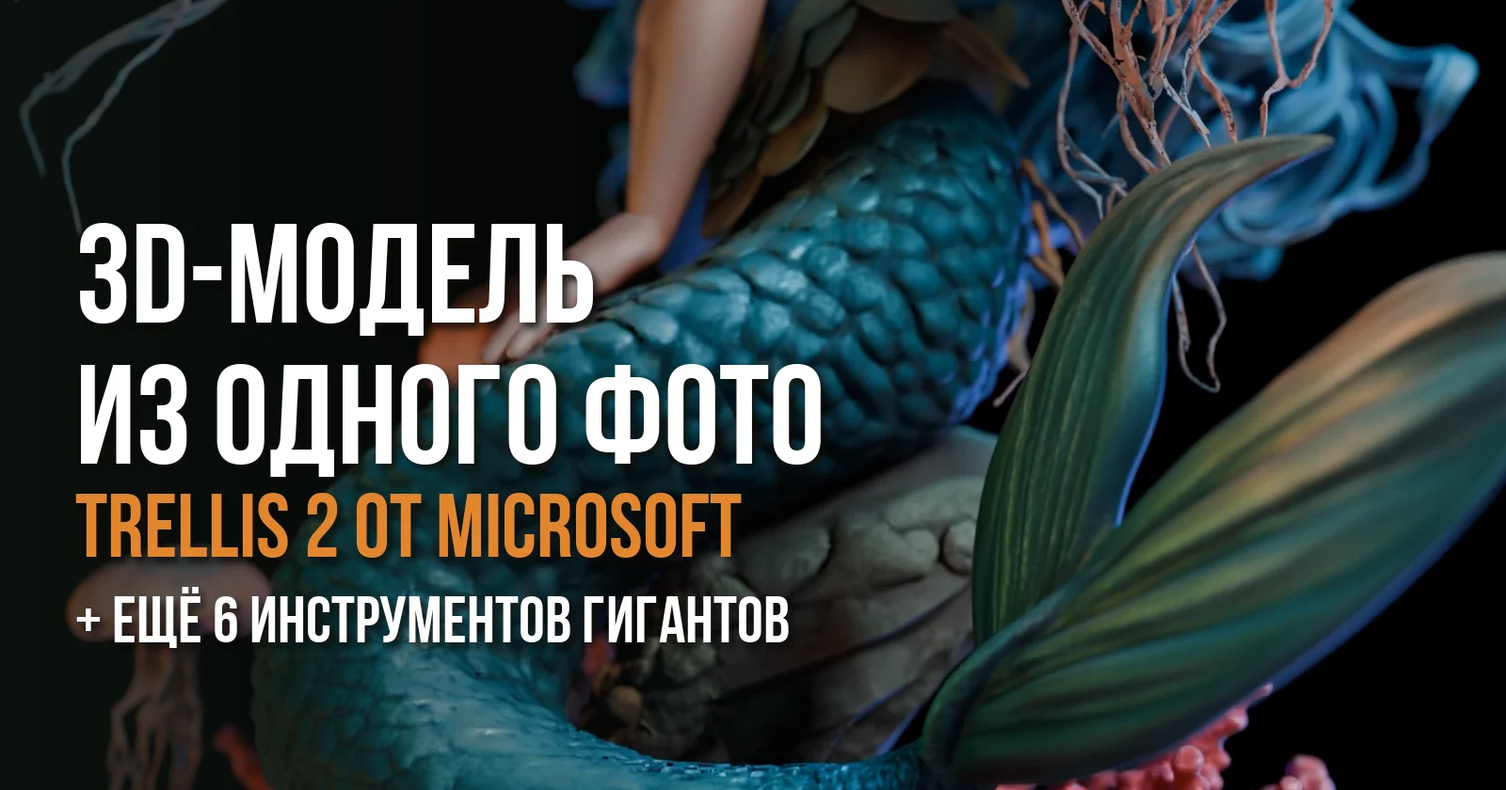
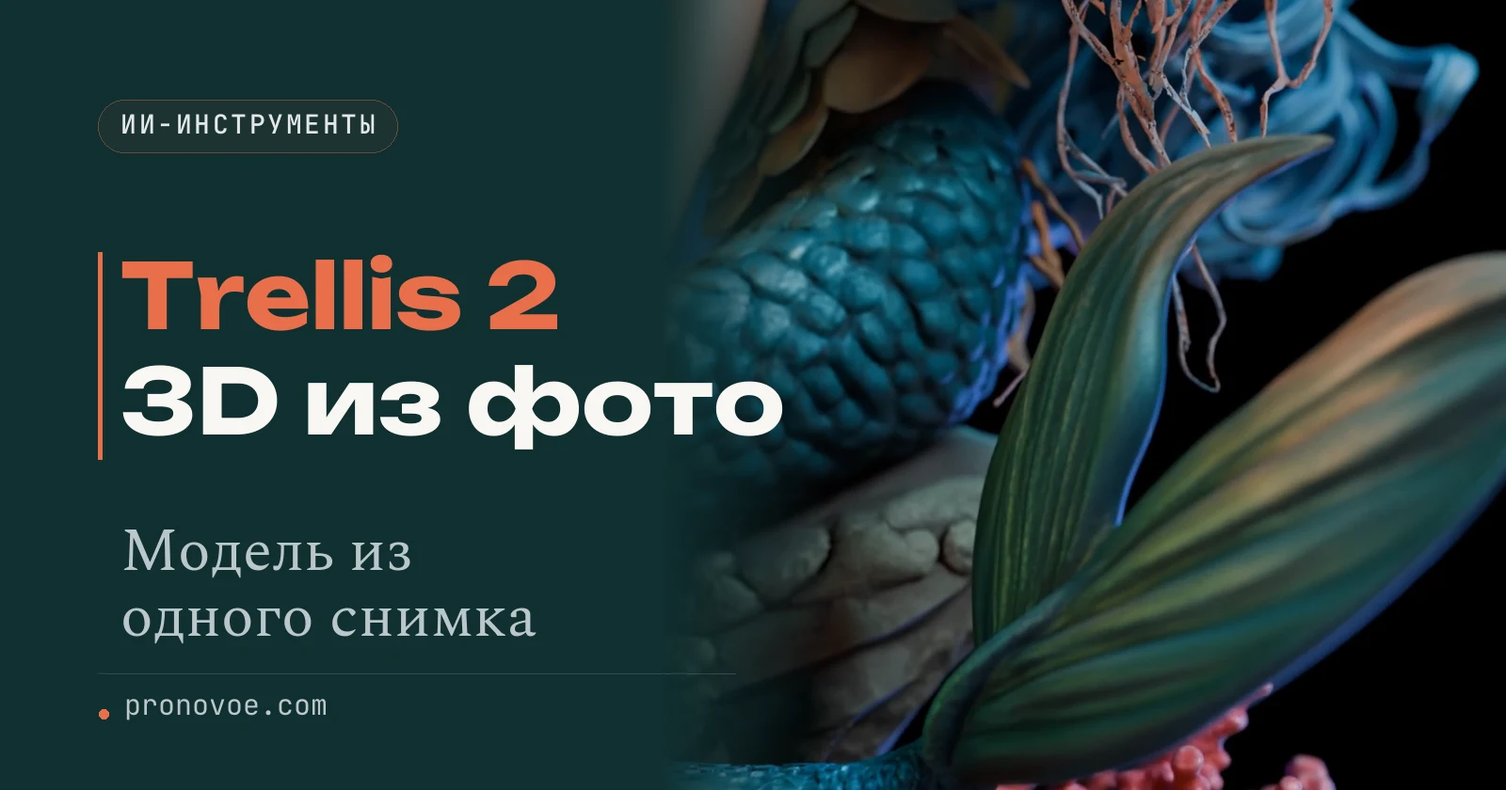
Статья Trellis 2: правки Жанны и двух критиков, обложка по стандарту, цены и лимиты

diff --git a/claude-ai/trellis-2-3d-model-iz-foto/index.html b/claude-ai/trellis-2-3d-model-iz-foto/index.html
@@ -1417,7 +1417,7 @@ html { scroll-padding-bottom: calc(var(--cookie-height, 0px) + 16px) }
 <div class="header-actions"><div class="handout-title">3D из одного фото</div><div class="header-controls">
 <button class="theme-toggle" type="button" aria-label="Переключить тему" title="Переключить тему">◐</button>
 </div></div></div></header>
-<div class="page-shell"><nav class="toc" aria-label="Содержание"><p class="toc-label">В статье</p><a href="#trellis-2-3d-iz-foto-za-dve-knopki">Trellis 2: 3D-модель из фото за две кнопки</a><a href="#chto-umeet-trellis-2">Что умеет Trellis 2 и где у неё границы</a><a href="#komu-nuzhna-3d-model">Кому нужна 3D-модель из одного фото</a><a href="#shest-otkrytyh-instrumentov-gigantov">Ещё 6 открытых инструментов от ИИ-гигантов</a><a href="#kak-zabrat-instrument-s-github">Как забрать любой инструмент с GitHub за минуту</a><a href="#chto-nuzhno-chtoby-zapustit-u-sebya">Что нужно, чтобы запустить у себя</a><a href="#gde-spotykayutsya">Где спотыкаются</a></nav><main><article>
+<div class="page-shell"><nav class="toc" aria-label="Содержание"><p class="toc-label">В статье</p><a href="#trellis-2-3d-iz-foto-za-dve-knopki">Trellis 2: 3D-модель из фото за две кнопки</a><a href="#chto-umeet-trellis-2">Что умеет Trellis 2 и где у неё границы</a><a href="#komu-nuzhna-3d-model">Кому нужна 3D-модель из одного фото</a><a href="#shest-otkrytyh-instrumentov-gigantov">Ещё 6 открытых инструментов от ИИ-гигантов</a><a href="#kak-zabrat-instrument-s-github">Как забрать любой инструмент с GitHub за минуту</a><a href="#chto-nuzhno-chtoby-zapustit-u-sebya">Что нужно, чтобы запустить у себя</a><a href="#skolko-stoit-i-kakie-limity">Сколько это стоит и какие лимиты</a><a href="#gde-spotykayutsya">Где спотыкаются</a></nav><main><article>
 
       <nav class="breadcrumbs" aria-label="Хлебные крошки">
         <ol>
@@ -1431,8 +1431,8 @@ html { scroll-padding-bottom: calc(var(--cookie-height, 0px) + 16px) }
       <h1>Trellis 2: 3D-модель из одного фото и ещё 6 инструментов гигантов</h1>
 <p class="uroven-metka green" style="display:inline-block;margin:16px 0 0;padding:5px 12px;border-radius:999px;background:var(--guide-color-success-paper);color:var(--guide-color-success-ink);font:700 13px/1.3 -apple-system,BlinkMacSystemFont,&quot;Segoe UI&quot;,Arial,sans-serif">Начальный уровень</p>
 
-      <p class="lead">Открой <a href="https://huggingface.co/spaces/microsoft/TRELLIS.2" rel="noopener nofollow" target="_blank">демо Trellis 2 на Hugging Face</a>, загрузи фото предмета и нажми Generate. Через пару минут в окне справа появится объёмная модель, её можно крутить мышкой, а кнопка Download GLB отдаст файл. Регистрация не нужна, код открыт под лицензией MIT</p>
-      <p>Ниже пошагово, с экранами из моего прогона. Потом кому нужна такая модель и ещё шесть открытых инструментов от Tencent, Alibaba, OpenAI, NVIDIA, Anthropic и Cloudflare: что делает каждый, где он лежит и что нужно, чтобы запустить его у себя</p><details class="mobile-toc"><summary>Открыть содержание</summary><nav aria-label="Содержание на телефоне"><a href="#trellis-2-3d-iz-foto-za-dve-knopki">Trellis 2: 3D-модель из фото за две кнопки</a><a href="#chto-umeet-trellis-2">Что умеет Trellis 2 и где у неё границы</a><a href="#komu-nuzhna-3d-model">Кому нужна 3D-модель из одного фото</a><a href="#shest-otkrytyh-instrumentov-gigantov">Ещё 6 открытых инструментов от ИИ-гигантов</a><a href="#kak-zabrat-instrument-s-github">Как забрать любой инструмент с GitHub за минуту</a><a href="#chto-nuzhno-chtoby-zapustit-u-sebya">Что нужно, чтобы запустить у себя</a><a href="#gde-spotykayutsya">Где спотыкаются</a></nav></details>
+      <p class="lead">Открой <a href="https://huggingface.co/spaces/microsoft/TRELLIS.2" rel="noopener nofollow" target="_blank">демо Trellis 2 на Hugging Face</a>, загрузи фото предмета и нажми Generate. Примерно через 40 секунд в центре экрана появится объёмная модель, её можно крутить мышкой, а кнопка Download GLB отдаст файл. Регистрация не нужна, но без входа хватает на один-два запуска в день. Код открыт под лицензией MIT</p>
+      <p>Ниже пошагово, с экранами из моего прогона. Потом кому нужна такая модель и ещё шесть открытых инструментов от Tencent, Alibaba, OpenAI, NVIDIA, Anthropic и Cloudflare: что делает каждый, где он лежит и что нужно, чтобы запустить его у себя</p><details class="mobile-toc"><summary>Открыть содержание</summary><nav aria-label="Содержание на телефоне"><a href="#trellis-2-3d-iz-foto-za-dve-knopki">Trellis 2: 3D-модель из фото за две кнопки</a><a href="#chto-umeet-trellis-2">Что умеет Trellis 2 и где у неё границы</a><a href="#komu-nuzhna-3d-model">Кому нужна 3D-модель из одного фото</a><a href="#shest-otkrytyh-instrumentov-gigantov">Ещё 6 открытых инструментов от ИИ-гигантов</a><a href="#kak-zabrat-instrument-s-github">Как забрать любой инструмент с GitHub за минуту</a><a href="#chto-nuzhno-chtoby-zapustit-u-sebya">Что нужно, чтобы запустить у себя</a><a href="#skolko-stoit-i-kakie-limity">Сколько это стоит и какие лимиты</a><a href="#gde-spotykayutsya">Где спотыкаются</a></nav></details>
 
 <!-- seo:breadcrumbs:start -->
 <nav aria-label="Хлебные крошки" style="margin:12px 0;font:14px/1.5 -apple-system,BlinkMacSystemFont,Arial,sans-serif"><a href="/">Инструкции по нейросетям</a> <span aria-hidden="true"> / </span><span aria-current="page">Trellis 2: 3D-модель из одного фото и ещё 6 инструментов гигантов</span></nav>
@@ -1447,7 +1447,7 @@ html { scroll-padding-bottom: calc(var(--cookie-height, 0px) + 16px) }
 
 
 <section id="trellis-2-3d-iz-foto-za-dve-knopki">
-  <h2 class="num">Trellis 2: 3D-модель из фото за две кнопки</h2>
+  <h2>Trellis 2: 3D-модель из фото за две кнопки</h2>
   <p>Trellis 2 выложила Microsoft. Это нейросеть, которая по одной картинке собирает объёмную модель: форму, цвет и материалы. Пробовать её можно прямо в браузере, на странице <a href="https://huggingface.co/spaces/microsoft/TRELLIS.2" rel="noopener nofollow" target="_blank">microsoft/TRELLIS.2</a> на Hugging Face. Это сайт, где компании выкладывают свои модели и дают погонять их в окне браузера</p>
   <p><b>Шаг 1.</b> Открой демо. Слева поле Image Prompt для картинки, под ним кнопка Generate, в центре окно предпросмотра, справа колонка готовых примеров Examples. Перетащи в поле свою фотографию или нажми на любой пример из галереи</p>
   <figure class="fig" data-own="screenshot">
@@ -1457,7 +1457,7 @@ html { scroll-padding-bottom: calc(var(--cookie-height, 0px) + 16px) }
     </picture></a>
     <figcaption>Картинка в поле Image Prompt, под ней кнопка Generate</figcaption>
   </figure>
-  <p><b>Шаг 2.</b> Нажми Generate и подожди. Справа появится предпросмотр модели, её можно крутить мышкой и смотреть со всех сторон. Не понравилось, нажми Generate ещё раз: при включённой галочке Randomize Seed каждый запуск даёт новый вариант</p>
+  <p><b>Шаг 2.</b> Нажми Generate и подожди. Справа появится предпросмотр модели, её можно крутить мышкой и смотреть со всех сторон. Если результат не понравился, нажми Generate ещё раз: при включённой галочке Randomize Seed (случайный вариант) каждый запуск даёт новую модель</p>
   <figure class="fig" data-own="screenshot">
     <a class="zoom" href="assets/trellis-shag-2.webp" target="_blank" rel="noopener" aria-label="Открыть картинку в полном размере"><picture>
       <source srcset="assets/trellis-shag-2.webp" type="image/webp">
@@ -1473,25 +1473,25 @@ html { scroll-padding-bottom: calc(var(--cookie-height, 0px) + 16px) }
     </picture></a>
     <figcaption>Кнопка Extract GLB под предпросмотром собирает файл, после неё появляется Download GLB</figcaption>
   </figure>
-  <div class="result"><p><b>Результат: файл .glb с объёмной моделью.</b> Его открывают в Blender, вставляют на сайт через просмотрщик 3D или отдают клиенту.</p></div>
-  <details class="check-panel"><summary>Демо пишет про очередь или ошибку квоты</summary>
-  <p>Демо работает на общей видеокарте Hugging Face, и у каждого посетителя есть лимит времени. Ошибка про квоту значит, что лимит на сейчас кончился. У меня после трёх запусков подряд без входа в аккаунт вместо модели появилась красная надпись Error. Подожди и попробуй позже или войди в аккаунт Hugging Face: вошедшим лимит дают больше</p>
+  <div class="result"><p><b>На выходе файл .glb с объёмной моделью:</b> его открывают в Blender (бесплатная программа для 3D), вставляют на сайт через просмотрщик 3D или отдают клиенту</p></div>
+  <details class="check-panel"><summary>Вместо модели красная надпись Error</summary>
+  <p>Демо работает на мощном компьютере Hugging Face, и бесплатно его дают ограниченное время в сутки. На сегодня оно закончилось. Сколько его и как получить больше, ниже в разделе про оплату и лимиты</p>
   </details>
 </section><section id="chto-umeet-trellis-2">
-  <h2 class="num">Что умеет Trellis 2 и где у неё границы</h2>
+  <h2>Что умеет Trellis 2 и где у неё границы</h2>
   <p>В карточке модели Microsoft перечисляет, что она собирает: сложную форму с тонкими деталями, открытые поверхности и полноценные материалы, то есть цвет, металл, шероховатость и прозрачность. Поэтому стекло, вода, перья и блестящий металл получаются похожими на настоящие, а не серой глиной</p>
   <figure class="fig" data-own="screenshot">
     <a class="zoom" href="assets/trellis-primery.webp" target="_blank" rel="noopener" aria-label="Открыть картинку в полном размере"><picture>
       <source srcset="assets/trellis-primery.webp" type="image/webp">
-      <img src="assets/trellis-primery.jpg" alt="Кадр из официального ролика Microsoft TRELLIS.2: модели с материалами feather, glass, water" width="1200" height="563" loading="lazy" decoding="async">
+      <img src="assets/trellis-primery.jpg" alt="Кадр из официального ролика Microsoft TRELLIS.2: модели с материалами feather, glass, water" width="1200" height="675" loading="lazy" decoding="async">
     </picture></a>
     <figcaption>Перья, стекло и вода: материалы, которые модель собирает сама. Кадр из официального ролика Microsoft</figcaption>
   </figure>
   <p>Лучше всего получается предмет на однотонном фоне, снятый целиком. Демо само отделяет предмет от фона, но если на фото несколько вещей или предмет обрезан краем кадра, модель додумает лишнее. Заднюю сторону нейросеть угадывает: её не видно на фото, поэтому сложный товар проверяй со всех сторон до того, как отдавать клиенту</p>
-  <p>Лицензия MIT. Это значит, что модель можно брать в работу, менять и использовать в коммерческих проектах, сохраняя текст лицензии</p>
+  <p>Лицензия у Trellis 2 MIT. Простыми словами: модели, которые она сделала, можно продавать и брать в работу для клиентов, если фото твоё или у тебя есть право им пользоваться. Платить Microsoft ничего не нужно. Единственное условие касается самого кода: если пересылаешь его кому-то, оставь внутри файл с текстом лицензии</p>
 </section><section id="komu-nuzhna-3d-model">
-  <h2 class="num">Кому нужна 3D-модель из одного фото</h2>
-  <p>Модель товара или объекта нужна всем, кто продаёт то, что хочется рассмотреть со всех сторон. Вот с кого начинать</p>
+  <h2>Кому нужна 3D-модель из одного фото</h2>
+  <p>Модель нужна всем, кто продаёт то, что хочется рассмотреть со всех сторон. Начать можно с этих пяти:</p>
   <div class="tablebox">
     <div class="tablewrap"><div class="table-scroll"><table class="fix">
       <thead><tr><th>Кому</th><th>Зачем ему модель</th><th>Что показать первым</th></tr></thead>
@@ -1499,20 +1499,20 @@ html { scroll-padding-bottom: calc(var(--cookie-height, 0px) + 16px) }
     </table></div></div>
     <p class="tablehint">Таблица прокручивается вбок →</p>
   </div>
-  <p>Первый показ делается в демо, без своей видеокарты. Свою технику имеет смысл покупать или арендовать, когда пошли повторные заказы</p>
+  <p>Первый раз покажи клиенту модель из демо: своя видеокарта не нужна. Пока заказов нет, оставайся на демо. Покупать или арендовать видеокарту стоит, когда пойдут повторные заказы</p>
 </section><section id="shest-otkrytyh-instrumentov-gigantov">
-  <h2 class="num">Ещё 6 открытых инструментов от ИИ-гигантов</h2>
-  <p>Trellis 2 не одна. Крупные компании выкладывают свои инструменты в открытый доступ: код лежит на GitHub, это сайт, где хранят проекты вместе со всеми их версиями. Вот шесть, которые можно взять в работу</p>
+  <h2>Ещё 6 открытых инструментов от ИИ-гигантов</h2>
+  <p>Не только Trellis 2: крупные компании выкладывают свои инструменты в открытый доступ: код лежит на GitHub: это сайт, где разработчики выкладывают свои программы, и оттуда их можно скачать. Шесть из них можно брать в работу</p>
   <div class="tablebox">
     <div class="tablewrap"><div class="table-scroll"><table class="fix">
-      <thead><tr><th>Кто</th><th>Инструмент</th><th>Что делает</th><th>Что можно на нём продавать</th></tr></thead>
-      <tbody><tr><td>Tencent</td><td><a href="https://github.com/Tencent-Hunyuan/Hunyuan3D-2" rel="noopener nofollow" target="_blank">Hunyuan3D-2</a></td><td>тоже 3D-модель из одной фотографии</td><td>3D-показ товаров для магазина</td></tr><tr><td>Alibaba</td><td><a href="https://github.com/QwenLM/Qwen3-TTS" rel="noopener nofollow" target="_blank">Qwen3-TTS</a></td><td>озвучка: новый голос по описанию словами или копия голоса по короткой записи, 10 языков, русский среди них</td><td>озвучка рекламы и роликов</td></tr><tr><td>OpenAI</td><td><a href="https://github.com/openai/symphony" rel="noopener nofollow" target="_blank">Symphony</a></td><td>задачи с доски проекта сами уходят ИИ-агентам, человек принимает готовое</td><td>сборка продукта для стартапа по подписке</td></tr><tr><td>NVIDIA</td><td><a href="https://github.com/NVIDIA/personaplex" rel="noopener nofollow" target="_blank">PersonaPlex</a></td><td>голосовой собеседник, который слушает, пока говорит, с любым голосом и ролью</td><td>голосовой администратор для клиники или салона</td></tr><tr><td>Anthropic</td><td><a href="https://github.com/anthropics/financial-services" rel="noopener nofollow" target="_blank">Claude for Financial Services</a></td><td>готовые ИИ-агенты для финансов: презентации инвесторам, проверка клиентов, закрытие месяца</td><td>финансовый отдел на подписке для небольшой фирмы</td></tr><tr><td>Cloudflare</td><td><a href="https://github.com/cloudflare/cloudflare-os" rel="noopener nofollow" target="_blank">Cloudflare OS</a></td><td>сотрудник просит приложение словами, агент собирает его в отдельной защищённой среде</td><td>внутренние инструменты для команды клиента</td></tr></tbody>
+      <thead><tr><th>Кто</th><th>Инструмент</th><th>Что делает</th><th>Идея для услуги</th></tr></thead>
+      <tbody><tr><td>Tencent</td><td><a href="https://github.com/Tencent-Hunyuan/Hunyuan3D-2" rel="noopener nofollow" target="_blank">Hunyuan3D-2</a></td><td>тоже 3D-модель из одной фотографии</td><td>3D-показ товаров для магазина</td></tr><tr><td>Alibaba</td><td><a href="https://github.com/QwenLM/Qwen3-TTS" rel="noopener nofollow" target="_blank">Qwen3-TTS</a></td><td>озвучка: новый голос по описанию словами или копия голоса по короткой записи, 10 языков, русский среди них</td><td>озвучка рекламы и роликов</td></tr><tr><td>OpenAI</td><td><a href="https://github.com/openai/symphony" rel="noopener nofollow" target="_blank">Symphony</a></td><td>задачи с доски проекта сами уходят ИИ-агентам, человек принимает готовое</td><td>сборка продукта для стартапа по подписке</td></tr><tr><td>NVIDIA</td><td><a href="https://github.com/NVIDIA/personaplex" rel="noopener nofollow" target="_blank">PersonaPlex</a></td><td>голосовой собеседник для живого разговора: слушает и отвечает одновременно, как человек по телефону, его можно перебить на полуслове. Голос и роль, например администратор клиники, задаёшь сам</td><td>голосовой администратор для клиники или салона</td></tr><tr><td>Anthropic</td><td><a href="https://github.com/anthropics/financial-services" rel="noopener nofollow" target="_blank">Claude for Financial Services</a></td><td>готовые ИИ-агенты для финансов: презентации инвесторам, проверка клиентов, закрытие месяца</td><td>финансовый отдел на подписке для небольшой фирмы</td></tr><tr><td>Cloudflare</td><td><a href="https://github.com/cloudflare/cloudflare-os" rel="noopener nofollow" target="_blank">Cloudflare OS</a></td><td>сотрудник просит приложение словами, агент собирает его в отдельной защищённой среде</td><td>внутренние инструменты для команды клиента</td></tr></tbody>
     </table></div></div>
     <p class="tablehint">Таблица прокручивается вбок →</p>
   </div>
-  <p>Два из шести, как и Trellis 2, работают прямо в браузере, без установки: <a href="https://huggingface.co/spaces/tencent/Hunyuan3D-2" rel="noopener nofollow" target="_blank">демо Hunyuan3D-2</a> и <a href="https://huggingface.co/spaces/Qwen/Qwen3-TTS" rel="noopener nofollow" target="_blank">демо Qwen3-TTS</a>. С них и начинай, если хочется увидеть результат за десять минут</p>
+  <p>Два из шести, как и Trellis 2, работают прямо в браузере, без установки: <a href="https://huggingface.co/spaces/tencent/Hunyuan3D-2" rel="noopener nofollow" target="_blank">демо Hunyuan3D-2</a> и <a href="https://huggingface.co/spaces/Qwen/Qwen3-TTS" rel="noopener nofollow" target="_blank">демо Qwen3-TTS</a>. С них и начинай, если хочется увидеть результат без установки</p>
 </section><section id="kak-zabrat-instrument-s-github">
-  <h2 class="num">Как забрать любой инструмент с GitHub за минуту</h2>
+  <h2>Как забрать любой инструмент с GitHub за минуту</h2>
   <p><b>Шаг 1.</b> Открой ссылку из таблицы. Увидишь список папок проекта, а справа сверху зелёную кнопку Code</p>
   <p><b>Шаг 2.</b> Нажми Code и в меню выбери Download ZIP. Архив с именем проекта и словом main ляжет в Загрузки, например symphony-main.zip</p>
   <p><b>Шаг 3.</b> Открой архив двойным щелчком. Внутри одна папка, а в ней файл README.md: это инструкция от авторов, с неё и начинают</p>
@@ -1523,27 +1523,48 @@ html { scroll-padding-bottom: calc(var(--cookie-height, 0px) + 16px) }
 3. Предложи три услуги, которые я могу продавать с его помощью, для каждой: кому и что показать первым.
 4. Назови риск по лицензии, если он есть.
 README:</code></pre>
-  <p>Через полминуты у тебя ответ по любому из семи инструментов и по любому следующему, который выложат завтра</p>
+  <p>Через полминуты у тебя ответ по любому из семи инструментов. Так же можно разбирать новые, когда они выйдут</p>
 </section><section id="chto-nuzhno-chtoby-zapustit-u-sebya">
-  <h2 class="num">Что нужно, чтобы запустить у себя</h2>
-  <p>Звёзды на GitHub показывают интерес, а не то, запустится ли проект на твоём ноутбуке. Четыре из семи хотят видеокарту NVIDIA, и об этом лучше узнать до часа возни</p>
+  <h2>Что нужно, чтобы запустить у себя</h2>
+  <p>Звёзды на GitHub показывают интерес, а не то, запустится ли проект на твоём ноутбуке. Четыре из семи работают только на мощной видеокарте NVIDIA. Три из них можно попробовать в демо на сайте Hugging Face, без установки, у PersonaPlex демо нет</p>
   <div class="tablebox">
     <div class="tablewrap"><div class="table-scroll"><table class="fix">
-      <thead><tr><th>Инструмент</th><th>Что нужно для запуска</th><th>Хватит обычного ноутбука</th></tr></thead>
-      <tbody><tr><td>Trellis 2 (Microsoft)</td><td>видеокарта NVIDIA от 24 ГБ памяти, так написано в README; без неё демо на Hugging Face</td><td>нет, кроме демо</td></tr><tr><td>Hunyuan3D-2 (Tencent)</td><td>видеокарта для модели с текстурой; без неё демо, в нём только форма без раскраски</td><td>нет, кроме демо</td></tr><tr><td>Qwen3-TTS (Alibaba)</td><td>видеокарта, если запускать у себя</td><td>нет, кроме демо</td></tr><tr><td>PersonaPlex (NVIDIA)</td><td>видеокарта NVIDIA и согласие с лицензией модели на Hugging Face</td><td>нет</td></tr><tr><td>Symphony (OpenAI)</td><td>аккаунт Codex, доска задач и папка с кодом; программу собирает кодовый агент по файлу SPEC.md</td><td>да, тяжёлое считает OpenAI</td></tr><tr><td>Financial Services (Anthropic)</td><td>аккаунт Claude: агенты подключаются как плагин</td><td>да</td></tr><tr><td>Cloudflare OS</td><td>одна команда запуска из README, страница открывается на твоём компьютере</td><td>да</td></tr></tbody>
+      <thead><tr><th>Инструмент</th><th>Что нужно для запуска у себя</th><th>Заработает на обычном ноутбуке?</th></tr></thead>
+      <tbody><tr><td>Trellis 2 (Microsoft)</td><td>видеокарта NVIDIA от 24 ГБ памяти, так написано в README</td><td>нет. Пользоваться можно в демо на Hugging Face</td></tr><tr><td>Hunyuan3D-2 (Tencent)</td><td>видеокарта NVIDIA</td><td>нет. В демо на Hugging Face есть только форма без раскраски</td></tr><tr><td>Qwen3-TTS (Alibaba)</td><td>видеокарта NVIDIA</td><td>нет. Пользоваться можно в демо на Hugging Face</td></tr><tr><td>PersonaPlex (NVIDIA)</td><td>видеокарта NVIDIA и согласие с лицензией модели на Hugging Face</td><td>нет, демо на Hugging Face у него нет</td></tr><tr><td>Symphony (OpenAI)</td><td>аккаунт ChatGPT с Codex, доска задач и папка с кодом</td><td>да, тяжёлую работу делает OpenAI</td></tr><tr><td>Financial Services (Anthropic)</td><td>Claude Code, агенты подключаются к нему как плагин</td><td>да</td></tr><tr><td>Cloudflare OS</td><td>одна команда запуска из README, страница открывается на твоём компьютере</td><td>да</td></tr></tbody>
     </table></div></div>
     <p class="tablehint">Таблица прокручивается вбок →</p>
   </div>
-  <p>Лицензии: у Trellis 2 и PersonaPlex MIT, у Symphony, Qwen3-TTS, Financial Services и Cloudflare OS Apache 2.0. Обе разрешают коммерческое использование. У Hunyuan3D-2 своя лицензия Tencent, её файл LICENSE лежит в корне проекта, прочитай его до первого счёта клиенту</p>
+  <h3>Можно ли на этом зарабатывать</h3>
+  <p>У шести из семи лицензии MIT или Apache 2.0, для PersonaPlex отдельно прочитай лицензию модели на Hugging Face. По лицензии инструмент можно ставить себе, менять под задачу и продавать на нём услуги, платить авторам не нужно. Если отдаёшь кому-то сам код, оставь в нём файл с текстом лицензии</p>
+  <p>У Hunyuan3D-2 лицензия своя, от Tencent. Она не распространяется на Евросоюз, Великобританию и Южную Корею: там пользоваться Hunyuan3D-2 по ней нельзя. Файл LICENSE лежит в корне проекта. Прочитай его, прежде чем брать с клиента деньги за модели из Hunyuan3D-2. Если не хочешь разбираться, для коммерческих заказов бери Trellis 2</p>
+</section><section id="skolko-stoit-i-kakie-limity">
+  <h2>Сколько это стоит и какие лимиты</h2>
+  <p>Код всех семи инструментов на GitHub скачивается бесплатно. Платить приходится за мощность: время видеокарты в демо, свою видеокарту или подписку на сервис, к которому инструмент подключается</p>
+  <div class="tablebox">
+    <div class="tablewrap"><div class="table-scroll"><table class="fix">
+      <thead><tr><th>Инструмент</th><th>Что бесплатно</th><th>Сколько стоит больше</th></tr></thead>
+      <tbody><tr><td>Trellis 2, Hunyuan3D-2, Qwen3-TTS в демо</td><td>без входа 2 минуты видеокарты в сутки, с бесплатным аккаунтом Hugging Face 5 минут</td><td>Hugging Face PRO за $9 в месяц: 40 минут в сутки и место первым в очереди. Сверх этого $1 за 10 минут</td></tr><tr><td>Те же три у себя на компьютере</td><td>код и модели</td><td>своя видеокарта NVIDIA или аренда сервера с ней</td></tr><tr><td>PersonaPlex</td><td>код и модель</td><td>своя видеокарта NVIDIA или аренда сервера с ней</td></tr><tr><td>Symphony</td><td>Codex есть даже в бесплатном ChatGPT, для коротких задач</td><td>ChatGPT Go от $8 в месяц</td></tr><tr><td>Financial Services</td><td>код плагина</td><td>Claude Pro: $20 в месяц или $17 при оплате за год</td></tr><tr><td>Cloudflare OS</td><td>запуск на своём компьютере</td><td>выкладка в аккаунт Cloudflare по тарифам Cloudflare</td></tr></tbody>
+    </table></div></div>
+    <p class="tablehint">Таблица прокручивается вбок →</p>
+  </div>
+  <p>Бесплатное время демо обновляется через сутки после первого запуска. Генерация модели в Trellis 2 идёт около 40 секунд, сборка файла ещё от полуминуты, поэтому без входа хватает на один-два запуска в день, с бесплатным аккаунтом примерно на четыре-пять</p>
 </section><section id="gde-spotykayutsya">
-  <h2 class="num">Где спотыкаются</h2>
-  <div class="tablebox">
-    <div class="tablewrap"><div class="table-scroll"><table class="fix">
-      <thead><tr><th>Что видишь</th><th>Что случилось</th><th>Что делать</th></tr></thead>
-      <tbody><tr><td>Демо Trellis 2 долго крутится или пишет про квоту</td><td>общая видеокарта занята или кончился лимит времени</td><td>подожди и запусти снова, войди в аккаунт Hugging Face</td></tr><tr><td>У модели странная задняя сторона</td><td>на фото её не было, нейросеть угадала</td><td>возьми фото, где предмет виден целиком, или сгенерируй ещё раз</td></tr><tr><td>В демо Hunyuan3D внизу Texture Generation (Unavailable)</td><td>бесплатное демо собирает только форму</td><td>для цветной модели бери Trellis 2</td></tr><tr><td>В архиве с GitHub нет программы, одни тексты</td><td>у Symphony и Financial Services так задумано: это описания и роли</td><td>Symphony отдай кодовому агенту, агентов Anthropic подключи к Claude</td></tr><tr><td>Модель NVIDIA просит принять лицензию</td><td>веса выдают только после согласия</td><td>нажми принять на Hugging Face и дождись доступа</td></tr></tbody>
-    </table></div></div>
-    <p class="tablehint">Таблица прокручивается вбок →</p>
-  </div>
+  <h2>Где спотыкаются</h2>
+  <details class="check-panel"><summary>Вместо модели красная надпись Error или демо долго крутится</summary>
+  <p>Кончилось бесплатное время видеокарты на сегодня или большая очередь. Подожди и запусти снова, войди в бесплатный аккаунт Hugging Face или возьми PRO</p>
+  </details>
+  <details class="check-panel"><summary>У модели странная задняя сторона</summary>
+  <p>Заднюю сторону нейросеть угадывает, на фото её не было. Возьми фото, где предмет виден целиком, или сгенерируй ещё раз</p>
+  </details>
+  <details class="check-panel"><summary>В демо Hunyuan3D внизу надпись Texture Generation (Unavailable)</summary>
+  <p>Бесплатное демо Hunyuan3D-2 собирает только форму без раскраски. Для цветной модели бери Trellis 2</p>
+  </details>
+  <details class="check-panel"><summary>В архиве с GitHub нет программы, одни тексты</summary>
+  <p>У Symphony и Financial Services так задумано: внутри описания и роли для ИИ. Открой папку проекта в Claude Code или Codex и вставь запрос из раздела про GitHub</p>
+  </details>
+  <details class="check-panel"><summary>Модель NVIDIA просит принять лицензию</summary>
+  <p>Веса PersonaPlex выдают только после согласия. Нажми принять на Hugging Face и дождись доступа</p>
+  </details>
 </section>
 
 

diff --git a/index.html b/index.html
@@ -872,7 +872,7 @@ html { scroll-padding-bottom: calc(var(--cookie-height, 0px) + 16px) }
     <section class="novoe" id="novoe" aria-label="Новое на сайте">
       <p class="novoe-label">Новое на сайте</p>
       <div class="novoe-list">
-        <a class="novoe-link" href="claude-ai/trellis-2-3d-model-iz-foto/"><img src="claude-ai/trellis-2-3d-model-iz-foto/assets/oblozhka.webp" alt="Тёмная обложка «3D-модель из одного фото» с русалкой из Trellis 2" width="1600" height="840" loading="lazy" decoding="async"><span>Trellis 2: 3D-модель из одного фото и ещё 6 инструментов гигантов</span></a>
+        <a class="novoe-link" href="claude-ai/trellis-2-3d-model-iz-foto/"><img src="claude-ai/trellis-2-3d-model-iz-foto/assets/oblozhka.webp" alt="Тёмно-зелёная обложка «Trellis 2. 3D из фото» с русалкой" width="1600" height="840" loading="lazy" decoding="async"><span>Trellis 2: 3D-модель из одного фото и ещё 6 инструментов гигантов</span></a>
         <a class="novoe-link" href="claude-ai/igry-pro-ii/"><img src="claude-ai/igry-pro-ii/assets/oblozhka.webp" alt="Тёмная обложка «7 игр про ИИ» с ноутбуком и экраном Agent Maze" width="1600" height="840" loading="lazy" decoding="async"><span>7 бесплатных игр про ИИ: что попробовать и чему они научат</span></a>
         <a class="novoe-link" href="claude-ai/mimika-personazha-chatgpt/"><img src="claude-ai/mimika-personazha-chatgpt/assets/oblozhka.webp" alt="Тёмная обложка «Мимика» с портретом персонажа" width="1600" height="840" loading="lazy" decoding="async"><span>1 персонаж, 9 выражений лица</span></a>
       </div>
@@ -1014,7 +1014,7 @@ html { scroll-padding-bottom: calc(var(--cookie-height, 0px) + 16px) }
           <a class="guide-link" data-tags="servisy green" data-metki="besplatno privatnost" data-kod="ЖЕМЧУГ" data-poisk="10 сайтов старого интернета, которые работают до сих пор FilePizza SunCalc MyFridgeFood GetHuman JustDeleteMe PDF24 Tools Namechk Cover Your Tracks TinEye IsThereAnyDeal Бесплатные сервисы Приватность" aria-label="10 сайтов старого интернета, которые работают до сих пор" href="claude-ai/10-saytov-starogo-interneta/"><img class="guide-cover" src="claude-ai/10-saytov-starogo-interneta/assets/oblozhka.webp" alt="10 сайтов старого интернета, которые работают до сих пор. Старый компьютер с ракушкой и десятью оранжевыми жемчужинами на экране как образ полезных сайтов, которые работают до сих пор" width="1600" height="840" loading="lazy" decoding="async" srcset="claude-ai/10-saytov-starogo-interneta/assets/oblozhka.reading-480.webp?v=6eab09d61070 480w, claude-ai/10-saytov-starogo-interneta/assets/oblozhka.reading-960.webp?v=6eab09d61070 960w, claude-ai/10-saytov-starogo-interneta/assets/oblozhka.reading-1600.webp?v=6eab09d61070 1600w" sizes="(max-width: 860px) calc(100vw - 40px), 320px" data-full-src="claude-ai/10-saytov-starogo-interneta/assets/oblozhka.webp"><span class="guide-body"><span class="guide-summary">Десять маленьких сайтов, каждый решает одну задачу</span><span class="guide-meta"><span class="kind kind-instr">Инструкция</span><span class="guide-level track-dot green" role="img" title="Начальный уровень" aria-label="Начальный уровень"></span></span></span></a>
           <a class="guide-link" data-tags="chatgpt blue composio mcp apps" data-metki="chatgpt pochta" data-kod="СВЯЗЬ" data-poisk="Как подключить ChatGPT к Gmail и Notion через Composio Composio Plugins MCP OAuth ChatGPT Почта и календарь" aria-label="Как подключить ChatGPT к Gmail и Notion через Composio" href="claude-ai/chatgpt-composio-prilozheniya/"><img class="guide-cover" src="claude-ai/chatgpt-composio-prilozheniya/assets/oblozhka.webp" alt="Как подключить ChatGPT к Gmail и Notion через Composio. Латунный штекер с коралловым плетёным кабелем подключён к розетке на тёмном бирюзовом столе" width="1600" height="840" loading="lazy" decoding="async" srcset="claude-ai/chatgpt-composio-prilozheniya/assets/oblozhka.reading-480.webp?v=077f15b64fd4 480w, claude-ai/chatgpt-composio-prilozheniya/assets/oblozhka.reading-960.webp?v=077f15b64fd4 960w, claude-ai/chatgpt-composio-prilozheniya/assets/oblozhka.reading-1600.webp?v=077f15b64fd4 1600w" sizes="(max-width: 860px) calc(100vw - 40px), 320px" data-full-src="claude-ai/chatgpt-composio-prilozheniya/assets/oblozhka.webp"><span class="guide-body"><span class="guide-tools">ChatGPT (чат)</span><span class="guide-summary">Подключи ChatGPT к почте и Notion: он сам читает письма и готовит черновики</span><span class="guide-meta"><span class="kind kind-instr">Инструкция</span><span class="guide-level track-dot blue" role="img" title="Средний уровень" aria-label="Средний уровень"></span></span></span></a>
           <a class="guide-link" data-tags="ii igry besplatno servisy green" data-metki="besplatno" data-kod="ИГРЫ" data-poisk="7 бесплатных игр про ИИ: что попробовать и чему они научат игры про ИИ бесплатные игры про искусственный интеллект Agent Maze Бесплатные сервисы" aria-label="7 бесплатных игр про ИИ: что попробовать и чему они научат" href="claude-ai/igry-pro-ii/"><img class="guide-cover" src="claude-ai/igry-pro-ii/assets/oblozhka.webp" alt="7 бесплатных игр про ИИ: что попробовать и чему они научат. Тёмная обложка «7 игр про ИИ» с ноутбуком и экраном Agent Maze" width="1600" height="840" loading="lazy" decoding="async"><span class="guide-body"><span class="guide-summary">Семь игр и интерактивов про ИИ: что показывает каждая, с какого действия начать</span><span class="guide-meta"><span class="kind kind-obzor">Обзор</span><span class="guide-level track-dot green" role="img" title="Начальный уровень" aria-label="Начальный уровень"></span></span></span></a>
-          <a class="guide-link" data-tags="ii 3d trellis besplatno servisy green" data-metki="besplatno" data-kod="МОДЕЛЬ" data-poisk="Trellis 2: 3D-модель из одного фото и ещё 6 инструментов гигантов 3D-модель из фото Trellis 2 нейросеть для 3D-моделей Бесплатные сервисы" aria-label="Trellis 2: 3D-модель из одного фото и ещё 6 инструментов гигантов" href="claude-ai/trellis-2-3d-model-iz-foto/"><img class="guide-cover" src="claude-ai/trellis-2-3d-model-iz-foto/assets/oblozhka.webp" alt="Trellis 2: 3D-модель из одного фото и ещё 6 инструментов гигантов. Тёмная обложка «3D-модель из одного фото» с русалкой из Trellis 2" width="1600" height="840" loading="lazy" decoding="async"><span class="guide-body"><span class="guide-summary">3D-модель из одного фото за две кнопки и ещё 6 открытых инструментов гигантов</span><span class="guide-meta"><span class="kind kind-obzor">Обзор</span><span class="guide-level track-dot green" role="img" title="Начальный уровень" aria-label="Начальный уровень"></span></span></span></a>
+          <a class="guide-link" data-tags="ii 3d trellis besplatno servisy green" data-metki="besplatno" data-kod="МОДЕЛЬ" data-poisk="Trellis 2: 3D-модель из одного фото и ещё 6 инструментов гигантов 3D-модель из фото Trellis 2 нейросеть для 3D-моделей Бесплатные сервисы" aria-label="Trellis 2: 3D-модель из одного фото и ещё 6 инструментов гигантов" href="claude-ai/trellis-2-3d-model-iz-foto/"><img class="guide-cover" src="claude-ai/trellis-2-3d-model-iz-foto/assets/oblozhka.webp" alt="Trellis 2: 3D-модель из одного фото и ещё 6 инструментов гигантов. Тёмно-зелёная обложка «Trellis 2. 3D из фото» с русалкой" width="1600" height="840" loading="lazy" decoding="async"><span class="guide-body"><span class="guide-summary">3D-модель из одного фото за две кнопки и ещё 6 открытых инструментов гигантов</span><span class="guide-meta"><span class="kind kind-obzor">Обзор</span><span class="guide-level track-dot green" role="img" title="Начальный уровень" aria-label="Начальный уровень"></span></span></span></a>
         </div>
       </div>
     </section>
